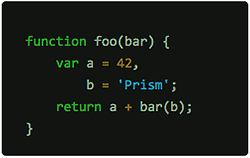
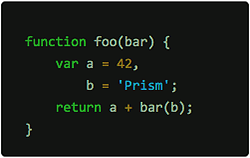
slightly darker yellow, less saturated base07

diff --git a/themes/prism-base16-atelierseaside.dark.css b/themes/prism-base16-atelierseaside.dark.css
@@ -75,7 +75,7 @@ pre[class*="language-"] {
 }
 
 .token.property {
-  color: #c3c322;
+  color: #98981b;
 }
 
 .token.tag {
@@ -125,7 +125,7 @@ pre[class*="language-"] {
 }
 
 .token.inserted {
-  border-bottom: 1px dotted #f0fff0;
+  border-bottom: 1px dotted #f4fbf4;
   text-decoration: none;
 }
 
